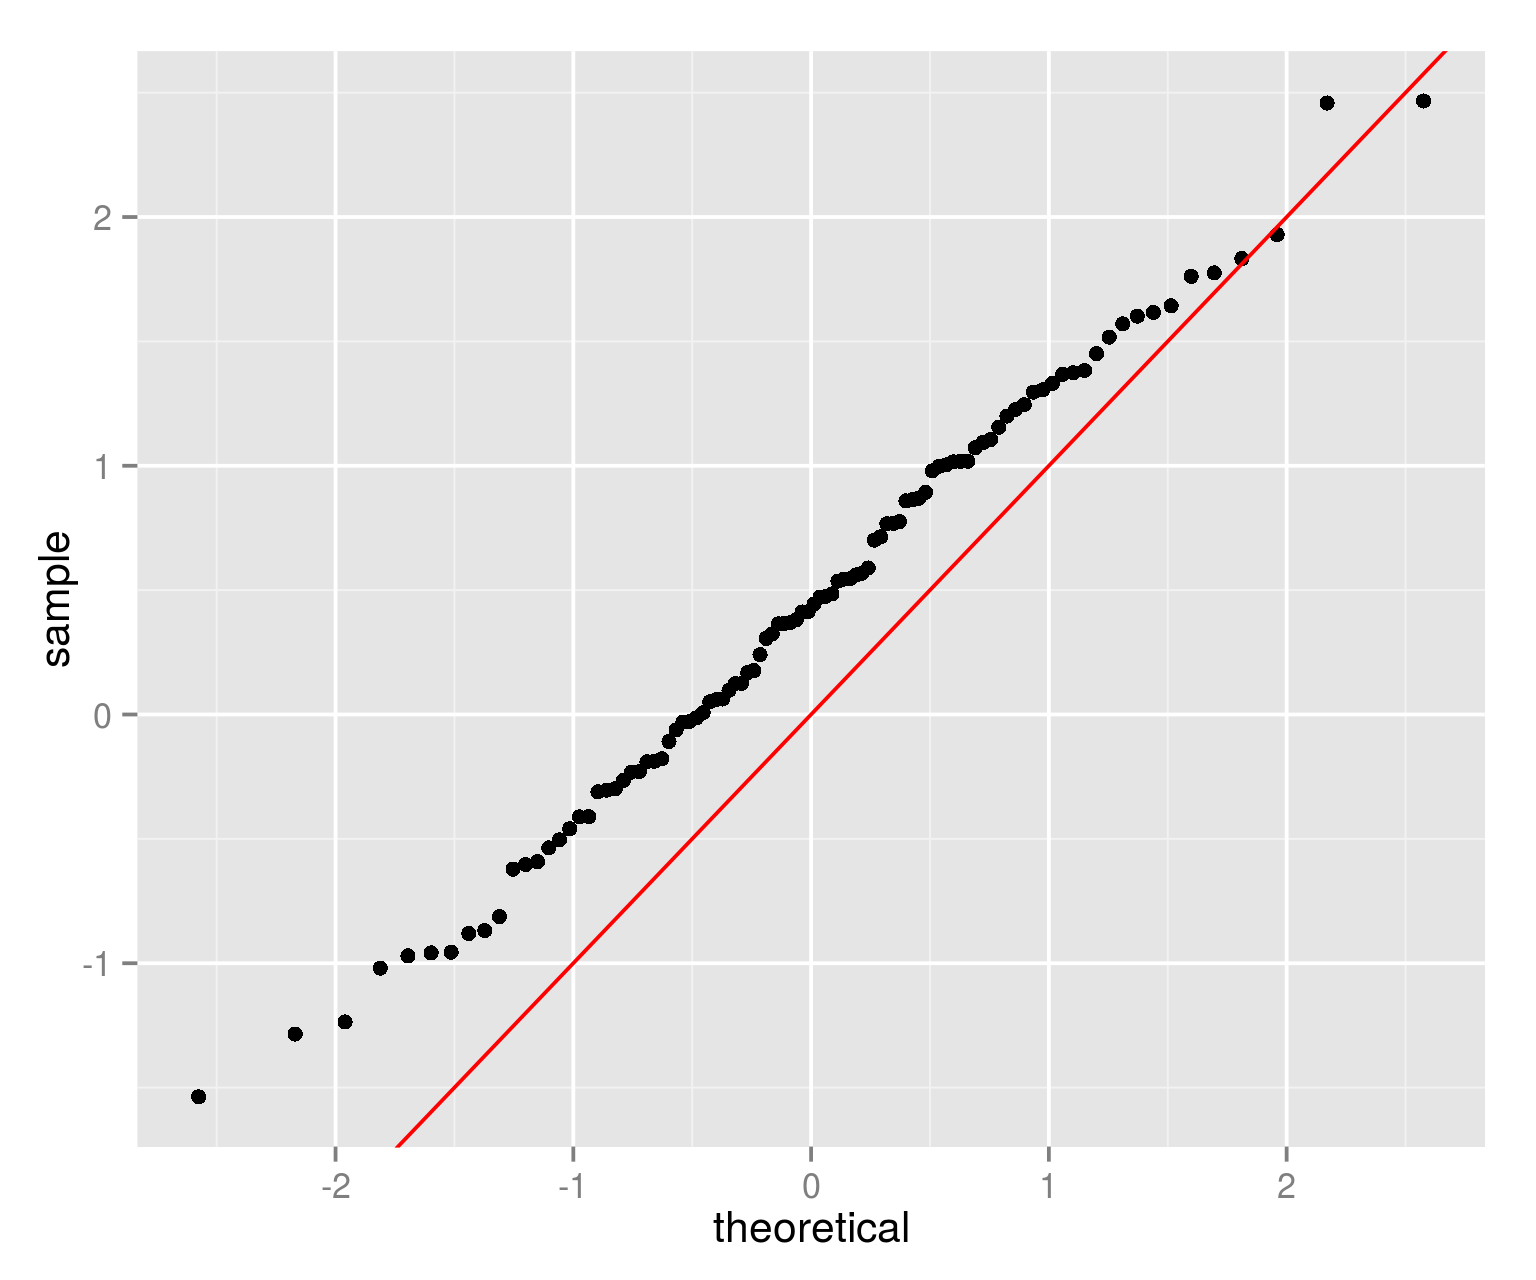
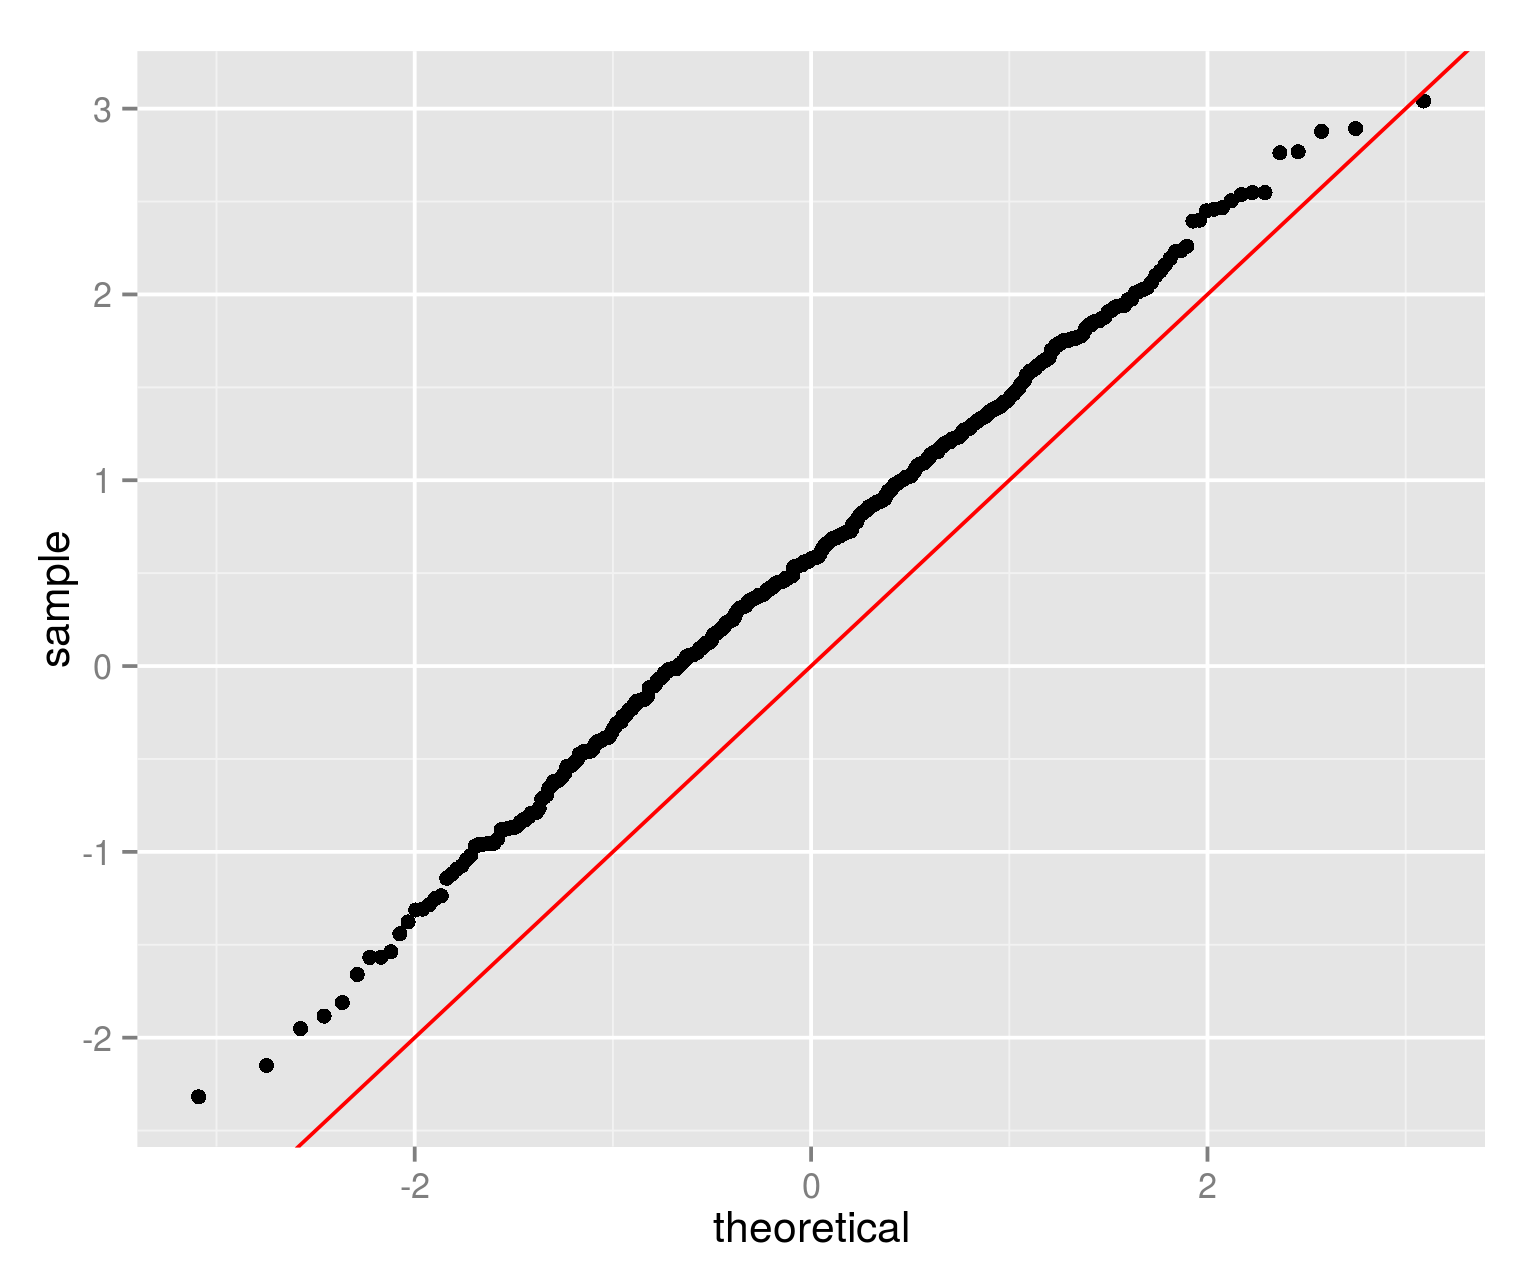
maxeig study; MGLH correlation

diff --git a/README.md b/README.md
@@ -329,7 +329,7 @@ Now perform some simulations to see if these are accurate:
 
 
 ```r
-nsim <- 100
+nsim <- 500
 set.seed(23401)
 retv <- replicate(nsim, {
     X <- genrows(ndays, true.mu, haSigma)
@@ -345,6 +345,13 @@ print(ph)
 
 ![plot of chunk cosym_mo](github_extra/figure/cosym_mo-1.png) 
 
+Why the bias? There are a number of possibilities:
+
+  1. Broken example. Am I really checking what I intended?
+	2. Broken derivative code. Easy to check.
+  3. Failure to take symmetry into account.
+  4. Sample size not large enough. (ha ha.)
+  5. Derivative equal or near zero, requiring second term expansion in delta method.
 
 # Enough already, bring me some Scotch!
 
@@ -398,8 +405,8 @@ EH <- SiB %*% GammaB
 oEH <- diag(ntgt) + EH
 
 HLT <- matrix.trace(oEH) - ntgt
-PBT <- matrix.trace(solve(oEH)) - ntgt
-LRT <- (1/det(oEH)) - 1
+PBT <- ntgt - matrix.trace(solve(oEH))
+LRT <- log(det(oEH))
 RLR <- maxeig(oEH) - 1
 MGLH <- c(HLT, PBT, LRT, RLR)
 walds <- val(MGLH)/sqrt(diag(vcov(MGLH)))
@@ -412,16 +419,31 @@ kable(preso)
 
 
 
-|type |  stat| Wald.stat|
-|:----|-----:|---------:|
-|HLT  | 66.59|       5.0|
-|PBT  | -1.69|     -15.6|
-|LRT  | -0.99|    -591.8|
-|RLR  | 76.05|       4.8|
+|type | stat| Wald.stat|
+|:----|----:|---------:|
+|HLT  | 66.6|       5.0|
+|PBT  |  1.7|      15.6|
+|LRT  |  5.2|      16.8|
+|RLR  | 76.0|       4.8|
 
-That's not good.
+These all cast doubt on the hypothesis of 'no connection between geography and taste', although
+I am accustomed to seeing Wald statistics being nearly equivalent. This is still beta code.
+
+We also have the estimated standard error covariance of the vector of 
+MGLH statistics, turned into a correlation matrix here:
 
 
+```r
+print(cov2cor(vcov(MGLH)))
+```
+
+```
+##      [,1] [,2] [,3] [,4]
+## [1,] 1.00 0.15 0.75 0.98
+## [2,] 0.15 1.00 0.75 0.11
+## [3,] 0.75 0.75 1.00 0.71
+## [4,] 0.98 0.11 0.71 1.00
+```
 
 # Correctness
 
